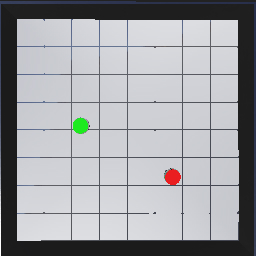
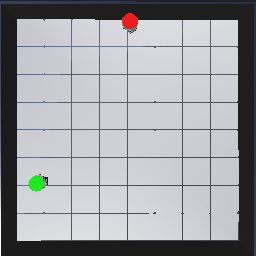
new

diff --git a/webots_module/webots_env.py b/webots_module/webots_env.py
@@ -46,7 +46,7 @@ class WebotsEnv(MultiAgentEnv):
         self.leftMotor.setVelocity(0.0)
         self.rightMotor.setVelocity(0.0)
         self.action_space = Discrete(5)
-        self.observation_space = Box(-16, 16, shape=(6,))
+        self.observation_space = Box(-16, 16, shape=(3,))
 
     # reset the env
     def reset(self):
@@ -61,8 +61,8 @@ class WebotsEnv(MultiAgentEnv):
         self.sendAction(str({0: 0, 1: 0}))
         self.step_nums = 0
         obs = {
-            self.agent_1: [0, 0, -0.2, 0, 0.2, 0.1],
-            self.agent_2: [0, 0, 0.2, 0.1, -0.2, 0]
+            self.agent_1: [0, -0.4, -0.1],
+            self.agent_2: [0, 0.4, 0.1]
         }
         return obs
 
@@ -76,35 +76,44 @@ class WebotsEnv(MultiAgentEnv):
         position2 = self.supervisor.getFromDef("robot-2").getPosition()
         rotation1 = self.supervisor.getFromDef("robot-1").getField("rotation").getSFRotation()[3]
         rotation2 = self.supervisor.getFromDef("robot-2").getField("rotation").getSFRotation()[3]
-        # rotation1 = int(rotation1 / 0.39)
-        # rotation2 = int(rotation2 / 0.39)
-        x1_position = int(math.floor((position1[0] + 0.5) / 0.125))
-        z1_position = int(math.floor((position1[2] + 0.5) / 0.125))
-        x2_position = int(math.floor((position2[0] + 0.5) / 0.125))
-        z2_position = int(math.floor((position2[2] + 0.5) / 0.125))
+        rotation1 = (rotation1 + 6.28) % 6.28
+        rotation2 = (rotation2 + 6.28) % 6.28
+        x1_position = position1[0]
+        z1_position = position1[2]
+        x2_position = position2[0]
+        z2_position = position2[2]
+        x1 = 0
+        z1 = -1
+        x2 = x2_position - x1_position
+        z2 = z2_position - z1_position
+        angle = math.acos((x1*x2+z1*z2)/(math.sqrt((x1**2+z1**2)*(x2**2+z2**2))))
+        print("The angle: ", rotation1)
+        if x2_position > x1_position:
+            angle = 6.28 - angle
         obs = {
-            self.agent_1: [rotation1, rotation2, x1_position, z1_position, x2_position, z2_position],
-            self.agent_2: [rotation2, rotation1, x2_position, z2_position, x1_position, z1_position]
+            self.agent_1: [angle-rotation1, x1_position-x2_position, z1_position-z2_position],
+            self.agent_2: [angle-rotation2, x2_position-x1_position, z2_position-z1_position]
         }
         reward = {
             self.agent_1: 0,
             self.agent_2: 0
         }
+        # 1/8=0.125 ^2=0.015625 0.06
         distance = math.pow((x1_position - x2_position), 2) + math.pow((z1_position - z2_position), 2)
         if distance < 0.0036:
             reward[self.agent_1] = -1
-        elif distance > 0.1:
-            reward[self.agent_1] = -0.01
-        elif distance > 0.0324:
-            reward[self.agent_1] = 0
+        elif distance < 0.016:
+            reward[self.agent_1] = (162*distance - 1.58)*(1-abs(rotation1-angle)/6.28)
+        elif distance < 0.064:
+            reward[self.agent_1] = (1.344 - 21*distance)*(1-abs(rotation1-angle)/6.28)
         else:
-            reward[self.agent_1] = 1 - abs(k * (0.018 - distance))
+            reward[self.agent_1] = 0.064 - distance
         done = {
             '__all__': False,
             self.agent_1: False,
             self.agent_2: False
         }
-        if self.step_nums==200:
+        if self.step_nums == 200:
             done = {
                 '__all__': True,
                 self.agent_1: True,
@@ -120,7 +129,7 @@ class WebotsEnv(MultiAgentEnv):
 
     # send the action to the robot2
     def sendAction(self, action):
-        print('send the action to the robot.')
+        # print('send the action to the robot.')
         string_action = action
         string_action = string_action.encode("utf-8")
         self.emitter.send(string_action)

diff --git a/ray_module/ma_trial.py b/ray_module/ma_trial.py
@@ -10,7 +10,7 @@ from webots_module.webots_env import WebotsEnv
 ray.init()
 
 register_env("Webots-v0", lambda _: WebotsEnv())
-obs_space = Box(-16, 16, shape=(6,))
+obs_space = Box(-16, 16, shape=(3,))
 act_space = Discrete(5)
 
 MY_Trainer = build_trainer(
@@ -33,7 +33,7 @@ config = {
 }
 trainer = MY_Trainer(env='Webots-v0', config=config)
 
-for i in range(10):
+for i in range(200):
     result = trainer.train()
     print(pretty_print(result))
 

diff --git a/real_module/camera.py b/real_module/camera.py
@@ -1,0 +1,15 @@
+import cv2
+import numpy as np
+capture = cv2.VideoCapture(0)  #'0'代表从摄像头读入，'./video.avi'代表读入视频
+capture.isOpened()
+num = 0
+while 1:
+    ret, frame = capture.read()
+    cv2.imshow('testcamera', frame)
+    key = cv2.waitKey(1)
+    num += 1
+    if key == 1048603:  # <ESC>
+        break
+
+capture.release()
+cv2.destroyAllWindows()
